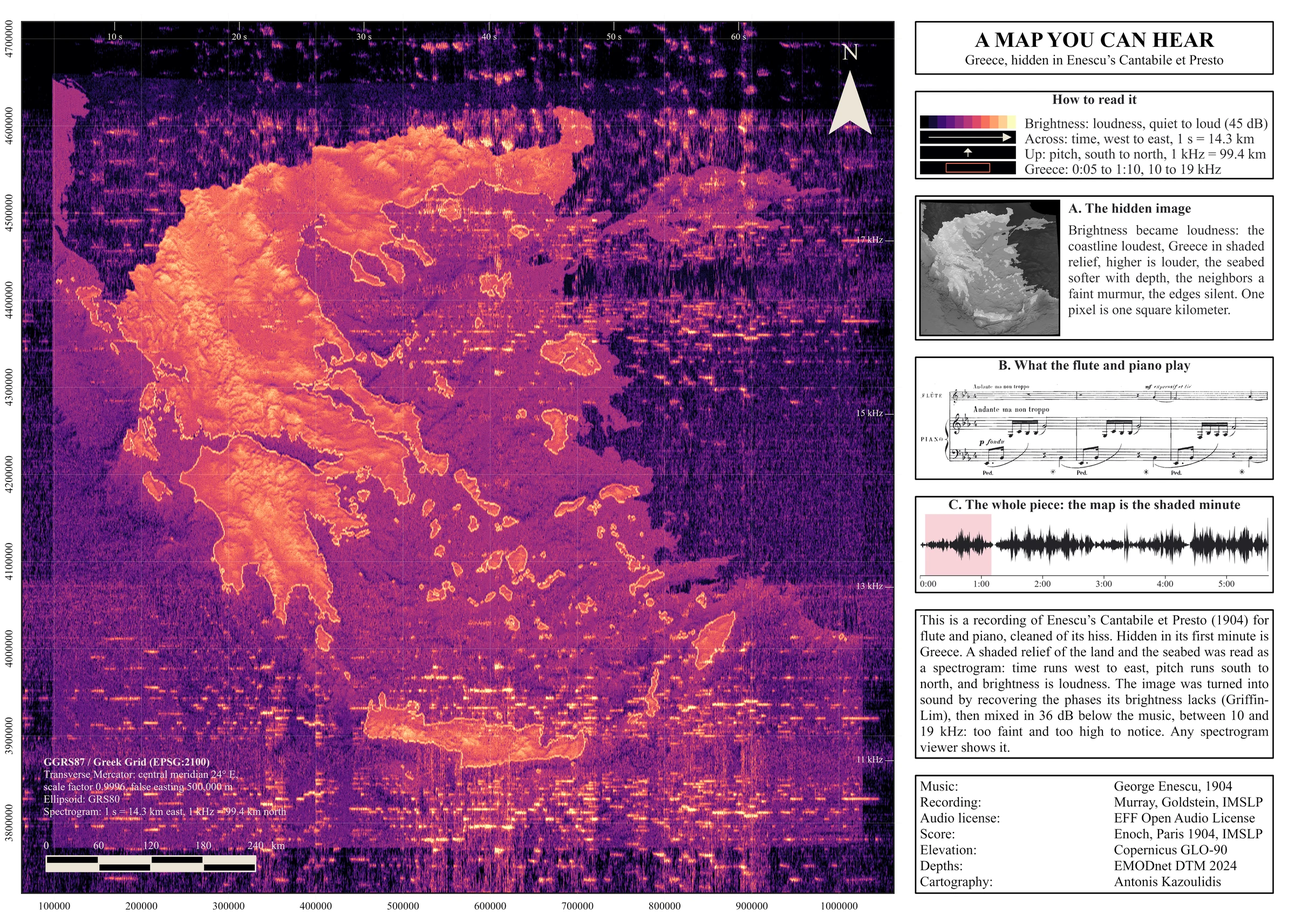
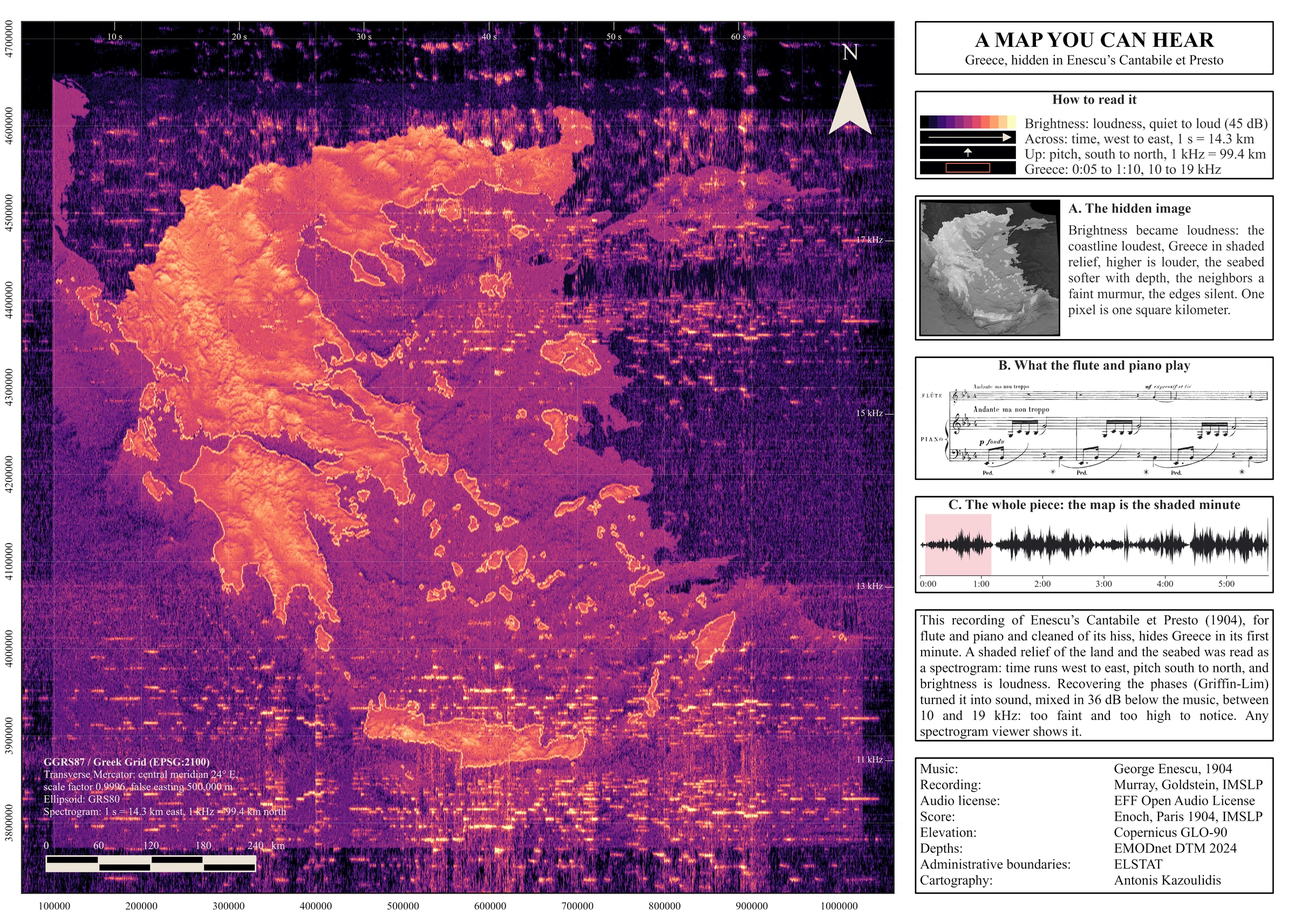
Day 25: ELSTAT credited for the boundaries on the sheet and page; the sheet's summary a line shorter

Changed region(s): [[0.6875, 0.6559, 1.0, 0.9682], [0.8438, 0.8433, 0.9688, 0.9682]]

diff --git a/src/content/projects/30dmc-2026-day-25-is-this-a-map.md b/src/content/projects/30dmc-2026-day-25-is-this-a-map.md
@@ -20,6 +20,8 @@ dataSource:
     href: 'https://dataspace.copernicus.eu/explore-data/data-collections/copernicus-contributing-missions/collections-description/COP-DEM'
   - label: 'EMODnet Bathymetry DTM 2024 - the seabed'
     href: 'https://emodnet.ec.europa.eu/en/bathymetry'
+  - label: 'Hellenic Statistical Authority (ELSTAT) - the Greek coast and boundaries, which separate Greece from its neighbors'
+    href: 'https://www.statistics.gr/en/digital-cartographical-data'
 downloads:
   - label: 'Full-resolution map'
     href: '/downloads/30dmc-2026-day-25-map.jpg'
